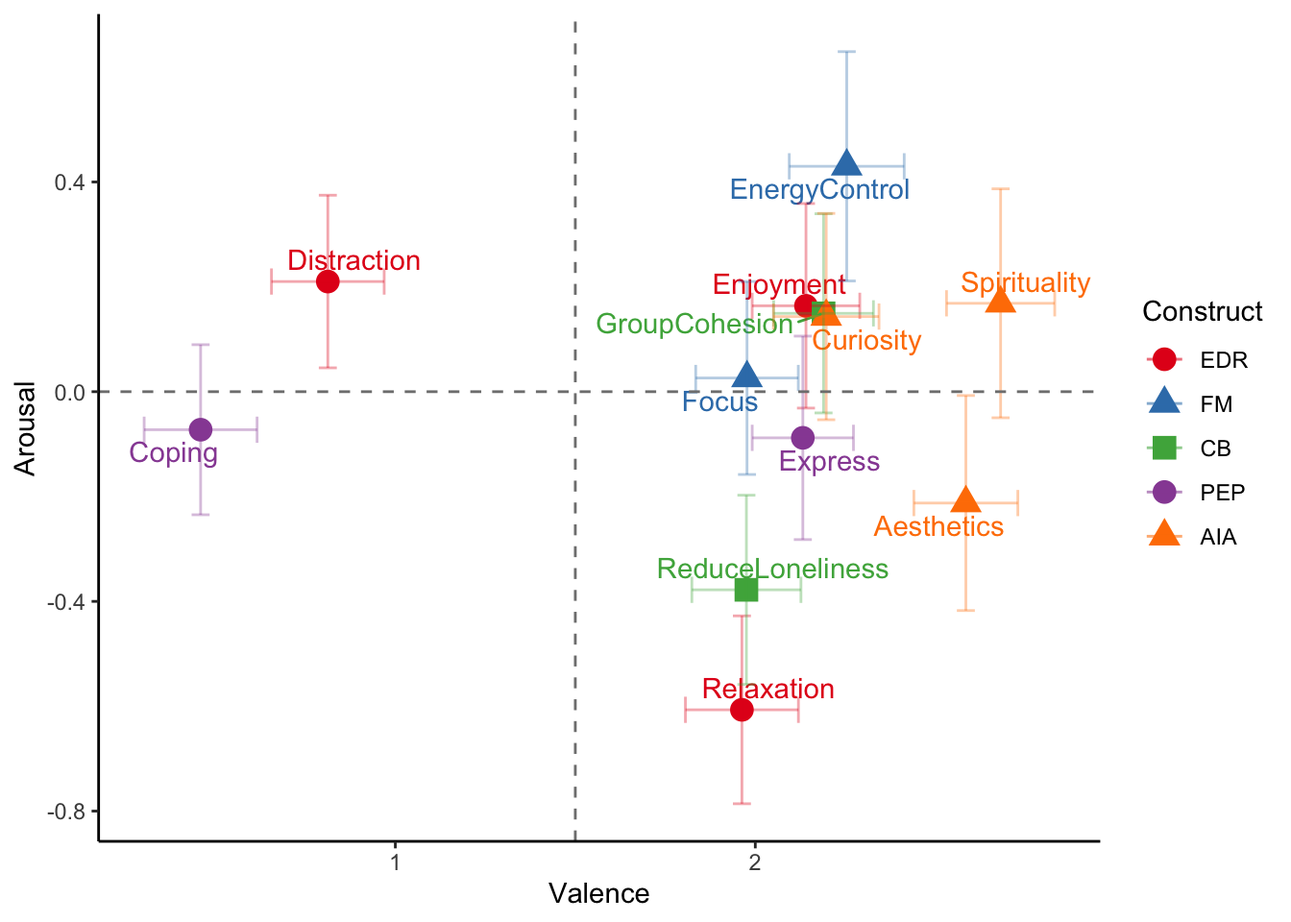
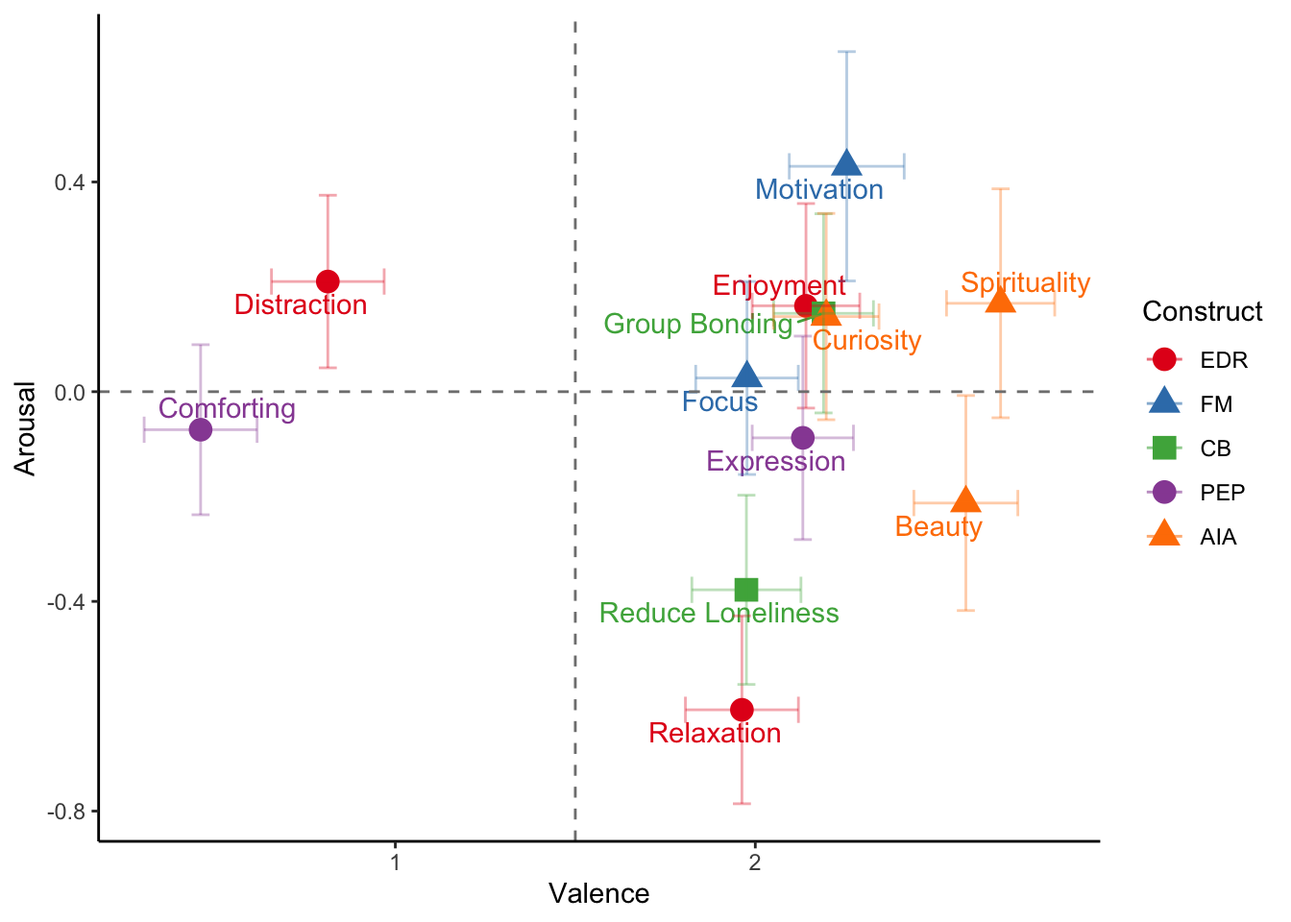
Minor relabelling of the sub-constructs take 2

diff --git a/docs/exp2/higher_order_structure.html b/docs/exp2/higher_order_structure.html
@@ -287,12 +287,12 @@ pre > code.sourceCode > span > a:first-child::before { text-decoration: underlin
 <span id="cb3-19"><a href="#cb3-19" aria-hidden="true" tabindex="-1"></a><span class="st">X =~ X4 + X8 + X9</span></span>
 <span id="cb3-20"><a href="#cb3-20" aria-hidden="true" tabindex="-1"></a></span>
 <span id="cb3-21"><a href="#cb3-21" aria-hidden="true" tabindex="-1"></a><span class="st"># sub-factors: AIA</span></span>
-<span id="cb3-22"><a href="#cb3-22" aria-hidden="true" tabindex="-1"></a><span class="st">B =~ B3 + B4 + B5</span></span>
+<span id="cb3-22"><a href="#cb3-22" aria-hidden="true" tabindex="-1"></a><span class="st">S =~ S3 + S4 + S5</span></span>
 <span id="cb3-23"><a href="#cb3-23" aria-hidden="true" tabindex="-1"></a><span class="st">I =~ I1 + I2</span></span>
-<span id="cb3-24"><a href="#cb3-24" aria-hidden="true" tabindex="-1"></a><span class="st">A =~ A1 + A3 + A5</span></span>
+<span id="cb3-24"><a href="#cb3-24" aria-hidden="true" tabindex="-1"></a><span class="st">B =~ B1 + B3 + B5</span></span>
 <span id="cb3-25"><a href="#cb3-25" aria-hidden="true" tabindex="-1"></a><span class="st">"</span></span>
 <span id="cb3-26"><a href="#cb3-26" aria-hidden="true" tabindex="-1"></a></span>
-<span id="cb3-27"><a href="#cb3-27" aria-hidden="true" tabindex="-1"></a>items <span class="ot">&lt;-</span> <span class="fu">c</span>(<span class="st">"E1"</span>,<span class="st">"E6"</span>,<span class="st">"E7"</span>,<span class="st">"D1"</span>,<span class="st">"D6"</span>,<span class="st">"D7"</span>,<span class="st">"R1"</span>,<span class="st">"R3"</span>,<span class="st">"R7"</span>,<span class="st">"M1"</span>,<span class="st">"M3"</span>,<span class="st">"M9"</span>,<span class="st">"F3"</span>,<span class="st">"F6"</span>,<span class="st">"F10"</span>,<span class="st">"G5"</span>,<span class="st">"G2"</span>,<span class="st">"G9"</span>,<span class="st">"L5"</span>,<span class="st">"L6"</span>,<span class="st">"L7"</span>,<span class="st">"C2"</span>,<span class="st">"C3"</span>,<span class="st">"C6"</span>,<span class="st">"X4"</span>,<span class="st">"X8"</span>,<span class="st">"X9"</span>,<span class="st">"B3"</span>,<span class="st">"B4"</span>,<span class="st">"B5"</span>,<span class="st">"I1"</span>,<span class="st">"I2"</span>,<span class="st">"A1"</span>,<span class="st">"A3"</span>,<span class="st">"A5"</span>)</span>
+<span id="cb3-27"><a href="#cb3-27" aria-hidden="true" tabindex="-1"></a>items <span class="ot">&lt;-</span> <span class="fu">c</span>(<span class="st">"E1"</span>,<span class="st">"E6"</span>,<span class="st">"E7"</span>,<span class="st">"D1"</span>,<span class="st">"D6"</span>,<span class="st">"D7"</span>,<span class="st">"R1"</span>,<span class="st">"R3"</span>,<span class="st">"R7"</span>,<span class="st">"M1"</span>,<span class="st">"M3"</span>,<span class="st">"M9"</span>,<span class="st">"F3"</span>,<span class="st">"F6"</span>,<span class="st">"F10"</span>,<span class="st">"G5"</span>,<span class="st">"G2"</span>,<span class="st">"G9"</span>,<span class="st">"L5"</span>,<span class="st">"L6"</span>,<span class="st">"L7"</span>,<span class="st">"C2"</span>,<span class="st">"C3"</span>,<span class="st">"C6"</span>,<span class="st">"X4"</span>,<span class="st">"X8"</span>,<span class="st">"X9"</span>,<span class="st">"S3"</span>,<span class="st">"S4"</span>,<span class="st">"S5"</span>,<span class="st">"I1"</span>,<span class="st">"I2"</span>,<span class="st">"B1"</span>,<span class="st">"B3"</span>,<span class="st">"B5"</span>)</span>
 <span id="cb3-28"><a href="#cb3-28" aria-hidden="true" tabindex="-1"></a>tmp <span class="ot">&lt;-</span> <span class="fu">CFA_items</span>(df_f,<span class="at">vignette =</span> <span class="dv">1</span><span class="sc">:</span><span class="dv">12</span>, <span class="at">items=</span>items,<span class="at">vignette_name=</span><span class="st">"ALL"</span>,<span class="at">bonusquestion=</span><span class="st">"HAAS"</span>)</span>
 <span id="cb3-29"><a href="#cb3-29" aria-hidden="true" tabindex="-1"></a>fit1 <span class="ot">&lt;-</span> lavaan<span class="sc">::</span><span class="fu">cfa</span>(<span class="at">model =</span> first_order, <span class="at">data =</span> tmp, <span class="at">meanstructure =</span> <span class="cn">TRUE</span>,<span class="at">estimator =</span> <span class="st">"MLR"</span>)</span>
 <span id="cb3-30"><a href="#cb3-30" aria-hidden="true" tabindex="-1"></a>fit1.meas <span class="ot">&lt;-</span> lavaan<span class="sc">::</span><span class="fu">fitMeasures</span>(fit1,<span class="fu">c</span>(<span class="st">"tli"</span>,<span class="st">"chisq"</span>,<span class="st">"df"</span>,<span class="st">"pvalue"</span>, <span class="st">"cfi"</span>, <span class="st">"rmsea"</span>, <span class="st">"srmr"</span>))</span>
@@ -328,9 +328,9 @@ pre > code.sourceCode > span > a:first-child::before { text-decoration: underlin
 <span id="cb5-19"><a href="#cb5-19" aria-hidden="true" tabindex="-1"></a><span class="st">X =~ X4 + X8 + X9</span></span>
 <span id="cb5-20"><a href="#cb5-20" aria-hidden="true" tabindex="-1"></a></span>
 <span id="cb5-21"><a href="#cb5-21" aria-hidden="true" tabindex="-1"></a><span class="st"># sub-factors: AIA</span></span>
-<span id="cb5-22"><a href="#cb5-22" aria-hidden="true" tabindex="-1"></a><span class="st">B =~ B3 + B4 + B5</span></span>
+<span id="cb5-22"><a href="#cb5-22" aria-hidden="true" tabindex="-1"></a><span class="st">S =~ S3 + S4 + S5</span></span>
 <span id="cb5-23"><a href="#cb5-23" aria-hidden="true" tabindex="-1"></a><span class="st">I =~ I1 + I2</span></span>
-<span id="cb5-24"><a href="#cb5-24" aria-hidden="true" tabindex="-1"></a><span class="st">A =~ A1 + A3 + A5</span></span>
+<span id="cb5-24"><a href="#cb5-24" aria-hidden="true" tabindex="-1"></a><span class="st">B =~ B1 + B3 + B5</span></span>
 <span id="cb5-25"><a href="#cb5-25" aria-hidden="true" tabindex="-1"></a></span>
 <span id="cb5-26"><a href="#cb5-26" aria-hidden="true" tabindex="-1"></a><span class="st"># 2nd order factors</span></span>
 <span id="cb5-27"><a href="#cb5-27" aria-hidden="true" tabindex="-1"></a></span>
@@ -338,10 +338,10 @@ pre > code.sourceCode > span > a:first-child::before { text-decoration: underlin
 <span id="cb5-29"><a href="#cb5-29" aria-hidden="true" tabindex="-1"></a><span class="st">FM =~ M + F</span></span>
 <span id="cb5-30"><a href="#cb5-30" aria-hidden="true" tabindex="-1"></a><span class="st">CB =~ G + L </span></span>
 <span id="cb5-31"><a href="#cb5-31" aria-hidden="true" tabindex="-1"></a><span class="st">PEP =~ C + X</span></span>
-<span id="cb5-32"><a href="#cb5-32" aria-hidden="true" tabindex="-1"></a><span class="st">AIA =~ B + I + A  </span></span>
+<span id="cb5-32"><a href="#cb5-32" aria-hidden="true" tabindex="-1"></a><span class="st">AIA =~ S + I + B  </span></span>
 <span id="cb5-33"><a href="#cb5-33" aria-hidden="true" tabindex="-1"></a><span class="st">"</span></span>
 <span id="cb5-34"><a href="#cb5-34" aria-hidden="true" tabindex="-1"></a></span>
-<span id="cb5-35"><a href="#cb5-35" aria-hidden="true" tabindex="-1"></a>items <span class="ot">&lt;-</span> <span class="fu">c</span>(<span class="st">"E1"</span>,<span class="st">"E6"</span>,<span class="st">"E7"</span>,<span class="st">"D1"</span>,<span class="st">"D6"</span>,<span class="st">"D7"</span>,<span class="st">"R1"</span>,<span class="st">"R3"</span>,<span class="st">"R7"</span>,<span class="st">"M1"</span>,<span class="st">"M3"</span>,<span class="st">"M9"</span>,<span class="st">"F3"</span>,<span class="st">"F6"</span>,<span class="st">"F10"</span>,<span class="st">"G5"</span>,<span class="st">"G2"</span>,<span class="st">"G9"</span>,<span class="st">"L5"</span>,<span class="st">"L6"</span>,<span class="st">"L7"</span>,<span class="st">"C2"</span>,<span class="st">"C3"</span>,<span class="st">"C6"</span>,<span class="st">"X4"</span>,<span class="st">"X8"</span>,<span class="st">"X9"</span>,<span class="st">"B3"</span>,<span class="st">"B4"</span>,<span class="st">"B5"</span>,<span class="st">"I1"</span>,<span class="st">"I2"</span>,<span class="st">"A1"</span>,<span class="st">"A3"</span>,<span class="st">"A5"</span>)</span>
+<span id="cb5-35"><a href="#cb5-35" aria-hidden="true" tabindex="-1"></a>items <span class="ot">&lt;-</span> <span class="fu">c</span>(<span class="st">"E1"</span>,<span class="st">"E6"</span>,<span class="st">"E7"</span>,<span class="st">"D1"</span>,<span class="st">"D6"</span>,<span class="st">"D7"</span>,<span class="st">"R1"</span>,<span class="st">"R3"</span>,<span class="st">"R7"</span>,<span class="st">"M1"</span>,<span class="st">"M3"</span>,<span class="st">"M9"</span>,<span class="st">"F3"</span>,<span class="st">"F6"</span>,<span class="st">"F10"</span>,<span class="st">"G5"</span>,<span class="st">"G2"</span>,<span class="st">"G9"</span>,<span class="st">"L5"</span>,<span class="st">"L6"</span>,<span class="st">"L7"</span>,<span class="st">"C2"</span>,<span class="st">"C3"</span>,<span class="st">"C6"</span>,<span class="st">"X4"</span>,<span class="st">"X8"</span>,<span class="st">"X9"</span>,<span class="st">"S3"</span>,<span class="st">"S4"</span>,<span class="st">"S5"</span>,<span class="st">"I1"</span>,<span class="st">"I2"</span>,<span class="st">"B1"</span>,<span class="st">"B3"</span>,<span class="st">"B5"</span>)</span>
 <span id="cb5-36"><a href="#cb5-36" aria-hidden="true" tabindex="-1"></a></span>
 <span id="cb5-37"><a href="#cb5-37" aria-hidden="true" tabindex="-1"></a>tmp <span class="ot">&lt;-</span> <span class="fu">CFA_items</span>(df_f,<span class="at">vignette =</span> <span class="dv">1</span><span class="sc">:</span><span class="dv">12</span>, <span class="at">items=</span>items,<span class="at">vignette_name=</span><span class="st">"ALL"</span>,<span class="at">bonusquestion=</span><span class="st">"HAAS"</span>)</span>
 <span id="cb5-38"><a href="#cb5-38" aria-hidden="true" tabindex="-1"></a>fit2 <span class="ot">&lt;-</span> lavaan<span class="sc">::</span><span class="fu">cfa</span>(<span class="at">model =</span> second_order, <span class="at">data =</span> tmp, <span class="at">meanstructure =</span> <span class="cn">TRUE</span>, <span class="at">estimator =</span> <span class="st">"MLR"</span>)</span></code></pre></div><button title="Copy to Clipboard" class="code-copy-button"><i class="bi"></i></button></div>
@@ -567,19 +567,19 @@ fit2 - fit1        44        0.012     -0.031     -0.031 0.021 806.505 582.541</
 <span id="cb21-3"><a href="#cb21-3" aria-hidden="true" tabindex="-1"></a><span class="co"># This is done using omega, not alpha</span></span>
 <span id="cb21-4"><a href="#cb21-4" aria-hidden="true" tabindex="-1"></a><span class="fu">compRelSEM</span>(fit1,<span class="at">tau.eq=</span>F)                 <span class="co"># all acceptable good excellent</span></span></code></pre></div><button title="Copy to Clipboard" class="code-copy-button"><i class="bi"></i></button></div>
 <div class="cell-output cell-output-stdout">
-<pre><code>    E     D     R     M     F     G     L     C     X     B     I     A 
+<pre><code>    E     D     R     M     F     G     L     C     X     S     I     B 
 0.806 0.769 0.882 0.818 0.878 0.903 0.881 0.842 0.829 0.918 0.874 0.783 </code></pre>
 </div>
 <div class="code-copy-outer-scaffold"><div class="sourceCode cell-code" id="cb23"><pre class="sourceCode r code-with-copy"><code class="sourceCode r"><span id="cb23-1"><a href="#cb23-1" aria-hidden="true" tabindex="-1"></a><span class="fu">compRelSEM</span>(fit2,<span class="at">higher =</span> <span class="fu">c</span>(<span class="st">"EDR"</span>,<span class="st">"FM"</span>,<span class="st">"CB"</span>,<span class="st">"PEP"</span>,<span class="st">"AIA"</span>),<span class="at">tau.eq=</span>F) <span class="co"># all acceptable good excellent</span></span></code></pre></div><button title="Copy to Clipboard" class="code-copy-button"><i class="bi"></i></button></div>
 <div class="cell-output cell-output-stdout">
-<pre><code>    E     D     R     M     F     G     L     C     X     B     I     A   EDR 
+<pre><code>    E     D     R     M     F     G     L     C     X     S     I     B   EDR 
 0.804 0.771 0.882 0.811 0.879 0.903 0.880 0.841 0.832 0.918 0.874 0.783 0.679 
    FM    CB   PEP   AIA 
 0.760 0.613 0.704 0.759 </code></pre>
 </div>
 <div class="code-copy-outer-scaffold"><div class="sourceCode cell-code" id="cb25"><pre class="sourceCode r code-with-copy"><code class="sourceCode r"><span id="cb25-1"><a href="#cb25-1" aria-hidden="true" tabindex="-1"></a><span class="fu">compRelSEM</span>(fit3, <span class="at">tau.eq=</span>F)               <span class="co"># g good but constructs are poor </span></span></code></pre></div><button title="Copy to Clipboard" class="code-copy-button"><i class="bi"></i></button></div>
 <div class="cell-output cell-output-stdout">
-<pre><code>    g     E     D     R     M     F     G     L     C     X     B     I     A 
+<pre><code>    g     E     D     R     M     F     G     L     C     X     S     I     B 
 0.894 0.386 0.373 0.470 0.531 0.588 0.551 0.394 0.234 0.285 0.539 0.472 0.250 </code></pre>
 </div>
 <div class="code-copy-outer-scaffold"><div class="sourceCode cell-code" id="cb27"><pre class="sourceCode r code-with-copy"><code class="sourceCode r"><span id="cb27-1"><a href="#cb27-1" aria-hidden="true" tabindex="-1"></a><span class="fu">compRelSEM</span>(fit4,<span class="at">tau.eq=</span>F)                <span class="co"># all above 0.80</span></span></code></pre></div><button title="Copy to Clipboard" class="code-copy-button"><i class="bi"></i></button></div>
@@ -589,7 +589,7 @@ fit2 - fit1        44        0.012     -0.031     -0.031 0.021 806.505 582.541</
 </div>
 <div class="code-copy-outer-scaffold"><div class="sourceCode cell-code" id="cb29"><pre class="sourceCode r code-with-copy"><code class="sourceCode r"><span id="cb29-1"><a href="#cb29-1" aria-hidden="true" tabindex="-1"></a><span class="fu">compRelSEM</span>(fit5,<span class="at">tau.eq=</span>F,<span class="at">higher=</span><span class="st">"g"</span>)     <span class="co"># all above 0.80</span></span></code></pre></div><button title="Copy to Clipboard" class="code-copy-button"><i class="bi"></i></button></div>
 <div class="cell-output cell-output-stdout">
-<pre><code>    E     D     R     M     F     G     L     C     X     B     I     A     g 
+<pre><code>    E     D     R     M     F     G     L     C     X     S     I     B     g 
 0.805 0.771 0.882 0.812 0.879 0.903 0.880 0.842 0.832 0.918 0.874 0.782   NaN </code></pre>
 </div>
 <div class="code-copy-outer-scaffold"><div class="sourceCode cell-code" id="cb31"><pre class="sourceCode r code-with-copy"><code class="sourceCode r"><span id="cb31-1"><a href="#cb31-1" aria-hidden="true" tabindex="-1"></a>cor_matrix <span class="ot">&lt;-</span> <span class="fu">lavInspect</span>(fit2, <span class="st">"cor.lv"</span>)</span>
@@ -599,7 +599,7 @@ fit2 - fit1        44        0.012     -0.031     -0.031 0.021 806.505 582.541</
 
 Table: Correlations between the latent factors (for sub-constructs and constructs).
 
-|    |    E|    D|    R|    M|    F|    G|    L|    C|    X|    B|    I|    A|  EDR|   FM|   CB|  PEP|  AIA|
+|    |    E|    D|    R|    M|    F|    G|    L|    C|    X|    S|    I|    B|  EDR|   FM|   CB|  PEP|  AIA|
 |:---|----:|----:|----:|----:|----:|----:|----:|----:|----:|----:|----:|----:|----:|----:|----:|----:|----:|
 |E   | 1.00| 0.51| 0.49| 0.39| 0.39| 0.40| 0.44| 0.64| 0.57| 0.40| 0.45| 0.56| 0.69| 0.46| 0.59| 0.74| 0.59|
 |D   | 0.51| 1.00| 0.52| 0.41| 0.42| 0.43| 0.47| 0.68| 0.61| 0.42| 0.48| 0.59| 0.73| 0.49| 0.63| 0.79| 0.62|
@@ -610,9 +610,9 @@ Table: Correlations between the latent factors (for sub-constructs and construct
 |L   | 0.44| 0.47| 0.46| 0.35| 0.36| 0.50| 1.00| 0.62| 0.56| 0.43| 0.48| 0.60| 0.64| 0.42| 0.74| 0.72| 0.63|
 |C   | 0.64| 0.68| 0.66| 0.49| 0.49| 0.56| 0.62| 1.00| 0.67| 0.48| 0.55| 0.68| 0.92| 0.58| 0.83| 0.86| 0.72|
 |X   | 0.57| 0.61| 0.59| 0.44| 0.44| 0.51| 0.56| 0.67| 1.00| 0.44| 0.49| 0.61| 0.83| 0.52| 0.75| 0.77| 0.64|
-|B   | 0.40| 0.42| 0.41| 0.28| 0.28| 0.38| 0.43| 0.48| 0.44| 1.00| 0.52| 0.64| 0.58| 0.33| 0.57| 0.56| 0.68|
+|S   | 0.40| 0.42| 0.41| 0.28| 0.28| 0.38| 0.43| 0.48| 0.44| 1.00| 0.52| 0.64| 0.58| 0.33| 0.57| 0.56| 0.68|
 |I   | 0.45| 0.48| 0.47| 0.32| 0.32| 0.44| 0.48| 0.55| 0.49| 0.52| 1.00| 0.73| 0.65| 0.38| 0.65| 0.64| 0.77|
-|A   | 0.56| 0.59| 0.57| 0.39| 0.40| 0.54| 0.60| 0.68| 0.61| 0.64| 0.73| 1.00| 0.81| 0.46| 0.80| 0.79| 0.95|
+|B   | 0.56| 0.59| 0.57| 0.39| 0.40| 0.54| 0.60| 0.68| 0.61| 0.64| 0.73| 1.00| 0.81| 0.46| 0.80| 0.79| 0.95|
 |EDR | 0.69| 0.73| 0.71| 0.56| 0.57| 0.58| 0.64| 0.92| 0.83| 0.58| 0.65| 0.81| 1.00| 0.66| 0.86| 1.07| 0.85|
 |FM  | 0.46| 0.49| 0.47| 0.84| 0.85| 0.38| 0.42| 0.58| 0.52| 0.33| 0.38| 0.46| 0.66| 1.00| 0.56| 0.67| 0.49|
 |CB  | 0.59| 0.63| 0.61| 0.47| 0.48| 0.67| 0.74| 0.83| 0.75| 0.57| 0.65| 0.80| 0.86| 0.56| 1.00| 0.97| 0.84|
@@ -630,7 +630,7 @@ Table: Correlations between the latent factors (for sub-constructs and construct
 <div class="code-copy-outer-scaffold"><div class="sourceCode cell-code" id="cb33"><pre class="sourceCode r code-with-copy"><code class="sourceCode r"><span id="cb33-1"><a href="#cb33-1" aria-hidden="true" tabindex="-1"></a><span class="co"># calculate average variance explained, 0.50+ is acceptable </span></span>
 <span id="cb33-2"><a href="#cb33-2" aria-hidden="true" tabindex="-1"></a><span class="fu">lavInspect</span>(fit1, <span class="st">"cor.lv"</span>)</span></code></pre></div><button title="Copy to Clipboard" class="code-copy-button"><i class="bi"></i></button></div>
 <div class="cell-output cell-output-stdout">
-<pre><code>      E     D     R     M     F     G     L     C     X     B     I     A
+<pre><code>      E     D     R     M     F     G     L     C     X     S     I     B
 E 1.000                                                                  
 D 0.432 1.000                                                            
 R 0.518 0.555 1.000                                                      
@@ -640,26 +640,26 @@ G 0.521 0.271 0.306 0.298 0.270 1.000
 L 0.432 0.623 0.450 0.381 0.390 0.502 1.000                              
 C 0.559 0.747 0.760 0.410 0.462 0.431 0.668 1.000                        
 X 0.535 0.635 0.467 0.565 0.491 0.574 0.595 0.667 1.000                  
-B 0.337 0.459 0.428 0.295 0.313 0.445 0.438 0.524 0.531 1.000            
+S 0.337 0.459 0.428 0.295 0.313 0.445 0.438 0.524 0.531 1.000            
 I 0.529 0.361 0.389 0.374 0.375 0.553 0.429 0.454 0.533 0.517 1.000      
-A 0.807 0.428 0.579 0.353 0.357 0.620 0.484 0.678 0.608 0.612 0.748 1.000</code></pre>
+B 0.807 0.428 0.579 0.353 0.357 0.620 0.484 0.678 0.608 0.612 0.748 1.000</code></pre>
 </div>
 <div class="code-copy-outer-scaffold"><div class="sourceCode cell-code" id="cb35"><pre class="sourceCode r code-with-copy"><code class="sourceCode r"><span id="cb35-1"><a href="#cb35-1" aria-hidden="true" tabindex="-1"></a><span class="co"># First-order model</span></span>
 <span id="cb35-2"><a href="#cb35-2" aria-hidden="true" tabindex="-1"></a><span class="fu">AVE</span>(fit1)  <span class="co"># all above 0.50</span></span></code></pre></div><button title="Copy to Clipboard" class="code-copy-button"><i class="bi"></i></button></div>
 <div class="cell-output cell-output-stdout">
-<pre><code>    E     D     R     M     F     G     L     C     X     B     I     A 
+<pre><code>    E     D     R     M     F     G     L     C     X     S     I     B 
 0.579 0.528 0.713 0.596 0.708 0.756 0.704 0.636 0.615 0.789 0.776 0.541 </code></pre>
 </div>
 <div class="code-copy-outer-scaffold"><div class="sourceCode cell-code" id="cb37"><pre class="sourceCode r code-with-copy"><code class="sourceCode r"><span id="cb37-1"><a href="#cb37-1" aria-hidden="true" tabindex="-1"></a><span class="co"># First and second-order</span></span>
 <span id="cb37-2"><a href="#cb37-2" aria-hidden="true" tabindex="-1"></a><span class="fu">AVE</span>(fit2)  <span class="co"># all above 0.50</span></span></code></pre></div><button title="Copy to Clipboard" class="code-copy-button"><i class="bi"></i></button></div>
 <div class="cell-output cell-output-stdout">
-<pre><code>    E     D     R     M     F     G     L     C     X     B     I     A 
+<pre><code>    E     D     R     M     F     G     L     C     X     S     I     B 
 0.577 0.528 0.713 0.594 0.708 0.756 0.704 0.635 0.617 0.789 0.776 0.541 </code></pre>
 </div>
 <div class="code-copy-outer-scaffold"><div class="sourceCode cell-code" id="cb39"><pre class="sourceCode r code-with-copy"><code class="sourceCode r"><span id="cb39-1"><a href="#cb39-1" aria-hidden="true" tabindex="-1"></a><span class="co"># Bifactor</span></span>
 <span id="cb39-2"><a href="#cb39-2" aria-hidden="true" tabindex="-1"></a><span class="fu">AVE</span>(fit3,<span class="at">omit.factors=</span><span class="st">"g"</span>)  <span class="co"># All below 0.50</span></span></code></pre></div><button title="Copy to Clipboard" class="code-copy-button"><i class="bi"></i></button></div>
 <div class="cell-output cell-output-stdout">
-<pre><code>    E     D     R     M     F     G     L     C     X     B     I     A 
+<pre><code>    E     D     R     M     F     G     L     C     X     S     I     B 
 0.277 0.259 0.380 0.394 0.475 0.462 0.339 0.184 0.222 0.464 0.420 0.196 </code></pre>
 </div>
 <div class="code-copy-outer-scaffold"><div class="sourceCode cell-code" id="cb41"><pre class="sourceCode r code-with-copy"><code class="sourceCode r"><span id="cb41-1"><a href="#cb41-1" aria-hidden="true" tabindex="-1"></a><span class="co"># Second-order only</span></span>
@@ -671,7 +671,7 @@ A 0.807 0.428 0.579 0.353 0.357 0.620 0.484 0.678 0.608 0.612 0.748 1.000</code>
 <div class="code-copy-outer-scaffold"><div class="sourceCode cell-code" id="cb43"><pre class="sourceCode r code-with-copy"><code class="sourceCode r"><span id="cb43-1"><a href="#cb43-1" aria-hidden="true" tabindex="-1"></a><span class="co"># 1st, 2nd, and third-order</span></span>
 <span id="cb43-2"><a href="#cb43-2" aria-hidden="true" tabindex="-1"></a><span class="fu">AVE</span>(fit5)  <span class="co"># all above 0.50</span></span></code></pre></div><button title="Copy to Clipboard" class="code-copy-button"><i class="bi"></i></button></div>
 <div class="cell-output cell-output-stdout">
-<pre><code>    E     D     R     M     F     G     L     C     X     B     I     A 
+<pre><code>    E     D     R     M     F     G     L     C     X     S     I     B 
 0.577 0.529 0.713 0.594 0.708 0.756 0.704 0.636 0.617 0.789 0.776 0.540 </code></pre>
 </div>
 </div>
@@ -712,9 +712,9 @@ A 0.807 0.428 0.579 0.353 0.357 0.620 0.484 0.678 0.608 0.612 0.748 1.000</code>
 <th style="text-align: right;">L</th>
 <th style="text-align: right;">C</th>
 <th style="text-align: right;">X</th>
-<th style="text-align: right;">B</th>
+<th style="text-align: right;">S</th>
 <th style="text-align: right;">I</th>
-<th style="text-align: right;">A</th>
+<th style="text-align: right;">B</th>
 </tr>
 </thead>
 <tbody>
@@ -854,7 +854,7 @@ A 0.807 0.428 0.579 0.353 0.357 0.620 0.484 0.678 0.608 0.612 0.748 1.000</code>
 <td style="text-align: right;">0.619</td>
 </tr>
 <tr class="even">
-<td style="text-align: left;">B</td>
+<td style="text-align: left;">S</td>
 <td style="text-align: right;">0.338</td>
 <td style="text-align: right;">0.458</td>
 <td style="text-align: right;">0.429</td>
@@ -884,7 +884,7 @@ A 0.807 0.428 0.579 0.353 0.357 0.620 0.484 0.678 0.608 0.612 0.748 1.000</code>
 <td style="text-align: right;">0.758</td>
 </tr>
 <tr class="even">
-<td style="text-align: left;">A</td>
+<td style="text-align: left;">B</td>
 <td style="text-align: right;">0.809</td>
 <td style="text-align: right;">0.431</td>
 <td style="text-align: right;">0.577</td>

diff --git a/docs/exp2/CFA.html b/docs/exp2/CFA.html
@@ -563,12 +563,12 @@ Signif. codes:  0 '***' 0.001 '**' 0.01 '*' 0.05 '.' 0.1 ' ' 1</code></pre>
 <div class="code-copy-outer-scaffold"><div class="sourceCode cell-code" id="cb40"><pre class="sourceCode r code-with-copy"><code class="sourceCode r"><span id="cb40-1"><a href="#cb40-1" aria-hidden="true" tabindex="-1"></a><span class="fu">set.seed</span>(<span class="dv">3110</span>)</span>
 <span id="cb40-2"><a href="#cb40-2" aria-hidden="true" tabindex="-1"></a></span>
 <span id="cb40-3"><a href="#cb40-3" aria-hidden="true" tabindex="-1"></a>AIA <span class="ot">&lt;-</span> <span class="st">"</span></span>
-<span id="cb40-4"><a href="#cb40-4" aria-hidden="true" tabindex="-1"></a><span class="st">B =~ B3 + B4 + B5</span></span>
+<span id="cb40-4"><a href="#cb40-4" aria-hidden="true" tabindex="-1"></a><span class="st">S =~ S3 + S4 + S5</span></span>
 <span id="cb40-5"><a href="#cb40-5" aria-hidden="true" tabindex="-1"></a><span class="st">I =~ I1 + I2</span></span>
-<span id="cb40-6"><a href="#cb40-6" aria-hidden="true" tabindex="-1"></a><span class="st">A =~ A1 + A3 + A5</span></span>
+<span id="cb40-6"><a href="#cb40-6" aria-hidden="true" tabindex="-1"></a><span class="st">B =~ B1 + B3 + B5</span></span>
 <span id="cb40-7"><a href="#cb40-7" aria-hidden="true" tabindex="-1"></a><span class="st">"</span></span>
 <span id="cb40-8"><a href="#cb40-8" aria-hidden="true" tabindex="-1"></a></span>
-<span id="cb40-9"><a href="#cb40-9" aria-hidden="true" tabindex="-1"></a>items <span class="ot">&lt;-</span> <span class="fu">c</span>(<span class="st">"B3"</span>,<span class="st">"B4"</span>,<span class="st">"B5"</span>,<span class="st">"I1"</span>,<span class="st">"I2"</span>,<span class="st">"A1"</span>,<span class="st">"A3"</span>,<span class="st">"A5"</span>)</span>
+<span id="cb40-9"><a href="#cb40-9" aria-hidden="true" tabindex="-1"></a>items <span class="ot">&lt;-</span> <span class="fu">c</span>(<span class="st">"S3"</span>,<span class="st">"S4"</span>,<span class="st">"S5"</span>,<span class="st">"I1"</span>,<span class="st">"I2"</span>,<span class="st">"B1"</span>,<span class="st">"B3"</span>,<span class="st">"B5"</span>)</span>
 <span id="cb40-10"><a href="#cb40-10" aria-hidden="true" tabindex="-1"></a>tmp <span class="ot">&lt;-</span> <span class="fu">CFA_items</span>(df_f,<span class="at">vignette =</span> <span class="fu">c</span>(<span class="dv">10</span>,<span class="dv">11</span>,<span class="dv">12</span>), <span class="at">items=</span>items,<span class="at">vignette_name=</span><span class="st">"AIA"</span>,<span class="at">bonusquestion=</span><span class="st">"HAAS"</span>)</span>
 <span id="cb40-11"><a href="#cb40-11" aria-hidden="true" tabindex="-1"></a>fit <span class="ot">&lt;-</span> lavaan<span class="sc">::</span><span class="fu">cfa</span>(<span class="at">model =</span> AIA, <span class="at">data =</span> tmp, <span class="at">estimator =</span> <span class="st">"MLR"</span>,<span class="at">group =</span> <span class="st">"VigNro"</span>) <span class="co"># includes vignettes explicitly</span></span>
 <span id="cb40-12"><a href="#cb40-12" aria-hidden="true" tabindex="-1"></a>fit.meas5 <span class="ot">&lt;-</span> lavaan<span class="sc">::</span><span class="fu">fitMeasures</span>(fit,<span class="fu">c</span>(<span class="st">"tli"</span>,<span class="st">"chisq"</span>,<span class="st">"df"</span>,<span class="st">"pvalue"</span>, <span class="st">"cfi"</span>, <span class="st">"rmsea"</span>, <span class="st">"srmr"</span>))</span>
@@ -621,9 +621,9 @@ Signif. codes:  0 '***' 0.001 '**' 0.01 '*' 0.05 '.' 0.1 ' ' 1</code></pre>
 <div class="code-copy-outer-scaffold"><div class="sourceCode cell-code" id="cb48"><pre class="sourceCode r code-with-copy"><code class="sourceCode r"><span id="cb48-1"><a href="#cb48-1" aria-hidden="true" tabindex="-1"></a><span class="fu">print</span>(ds5)</span></code></pre></div><button title="Copy to Clipboard" class="code-copy-button"><i class="bi"></i></button></div>
 <div class="cell-output cell-output-stdout">
 <pre><code>  lhs op rhs       est  ci.lower  ci.upper Df      AIC      BIC    Chisq
-1   B ~~   I 0.3237894 0.1860453 0.4615334 19 5758.875 5851.469 260.1804
-2   B ~~   A 0.5959015 0.4929085 0.6988944 19 5690.502 5783.097 191.8079
-3   I ~~   A 0.5215025 0.3852497 0.6577553 19 5685.831 5778.425 187.1364
+1   S ~~   I 0.3237894 0.1860453 0.4615334 19 5758.875 5851.469 260.1804
+2   S ~~   B 0.5959015 0.4929085 0.6988944 19 5690.502 5783.097 191.8079
+3   I ~~   B 0.5215025 0.3852497 0.6577553 19 5685.831 5778.425 187.1364
   Chisq diff Df diff   Pr(&gt;Chisq)
 1   92.37423       2 8.733540e-21
 2   70.24699       2 5.572616e-16
@@ -854,7 +854,7 @@ Signif. codes:  0 '***' 0.001 '**' 0.01 '*' 0.05 '.' 0.1 ' ' 1</code></pre>
 </tr>
 <tr class="odd">
 <td style="text-align: left;">AIA</td>
-<td style="text-align: left;">B</td>
+<td style="text-align: left;">S</td>
 <td style="text-align: left;">~~</td>
 <td style="text-align: left;">I</td>
 <td style="text-align: right;">0.324</td>
@@ -870,9 +870,9 @@ Signif. codes:  0 '***' 0.001 '**' 0.01 '*' 0.05 '.' 0.1 ' ' 1</code></pre>
 </tr>
 <tr class="even">
 <td style="text-align: left;">AIA</td>
-<td style="text-align: left;">B</td>
+<td style="text-align: left;">S</td>
 <td style="text-align: left;">~~</td>
-<td style="text-align: left;">A</td>
+<td style="text-align: left;">B</td>
 <td style="text-align: right;">0.596</td>
 <td style="text-align: right;">0.493</td>
 <td style="text-align: right;">0.699</td>
@@ -888,7 +888,7 @@ Signif. codes:  0 '***' 0.001 '**' 0.01 '*' 0.05 '.' 0.1 ' ' 1</code></pre>
 <td style="text-align: left;">AIA</td>
 <td style="text-align: left;">I</td>
 <td style="text-align: left;">~~</td>
-<td style="text-align: left;">A</td>
+<td style="text-align: left;">B</td>
 <td style="text-align: right;">0.522</td>
 <td style="text-align: right;">0.385</td>
 <td style="text-align: right;">0.658</td>
@@ -1145,7 +1145,7 @@ Signif. codes:  0 '***' 0.001 '**' 0.01 '*' 0.05 '.' 0.1 ' ' 1</code></pre>
 </thead>
 <tbody>
 <tr class="odd">
-<td style="text-align: left;">B</td>
+<td style="text-align: left;">S</td>
 <td style="text-align: left;">~~</td>
 <td style="text-align: left;">I</td>
 <td style="text-align: right;">0.58</td>
@@ -1158,9 +1158,9 @@ Signif. codes:  0 '***' 0.001 '**' 0.01 '*' 0.05 '.' 0.1 ' ' 1</code></pre>
 <td style="text-align: right;">0.52</td>
 </tr>
 <tr class="even">
-<td style="text-align: left;">B</td>
+<td style="text-align: left;">S</td>
 <td style="text-align: left;">~~</td>
-<td style="text-align: left;">A</td>
+<td style="text-align: left;">B</td>
 <td style="text-align: right;">0.43</td>
 <td style="text-align: right;">0.03</td>
 <td style="text-align: right;">15.12</td>
@@ -1173,7 +1173,7 @@ Signif. codes:  0 '***' 0.001 '**' 0.01 '*' 0.05 '.' 0.1 ' ' 1</code></pre>
 <tr class="odd">
 <td style="text-align: left;">I</td>
 <td style="text-align: left;">~~</td>
-<td style="text-align: left;">A</td>
+<td style="text-align: left;">B</td>
 <td style="text-align: right;">0.46</td>
 <td style="text-align: right;">0.03</td>
 <td style="text-align: right;">16.06</td>
@@ -1386,22 +1386,22 @@ Signif. codes:  0 '***' 0.001 '**' 0.01 '*' 0.05 '.' 0.1 ' ' 1</code></pre>
 <td style="text-align: right;">1.13</td>
 </tr>
 <tr class="even">
-<td style="text-align: left;">B3</td>
-<td style="text-align: left;">B</td>
+<td style="text-align: left;">S3</td>
+<td style="text-align: left;">S</td>
 <td style="text-align: right;">0.90</td>
 <td style="text-align: right;">2.74</td>
 <td style="text-align: right;">1.25</td>
 </tr>
 <tr class="odd">
-<td style="text-align: left;">B4</td>
-<td style="text-align: left;">B</td>
+<td style="text-align: left;">S4</td>
+<td style="text-align: left;">S</td>
 <td style="text-align: right;">0.89</td>
 <td style="text-align: right;">2.66</td>
 <td style="text-align: right;">1.23</td>
 </tr>
 <tr class="even">
-<td style="text-align: left;">B5</td>
-<td style="text-align: left;">B</td>
+<td style="text-align: left;">S5</td>
+<td style="text-align: left;">S</td>
 <td style="text-align: right;">0.88</td>
 <td style="text-align: right;">2.81</td>
 <td style="text-align: right;">1.28</td>
@@ -1421,22 +1421,22 @@ Signif. codes:  0 '***' 0.001 '**' 0.01 '*' 0.05 '.' 0.1 ' ' 1</code></pre>
 <td style="text-align: right;">1.13</td>
 </tr>
 <tr class="odd">
-<td style="text-align: left;">A1</td>
-<td style="text-align: left;">A</td>
+<td style="text-align: left;">B1</td>
+<td style="text-align: left;">B</td>
 <td style="text-align: right;">0.74</td>
 <td style="text-align: right;">4.15</td>
 <td style="text-align: right;">0.85</td>
 </tr>
 <tr class="even">
-<td style="text-align: left;">A3</td>
-<td style="text-align: left;">A</td>
+<td style="text-align: left;">B3</td>
+<td style="text-align: left;">B</td>
 <td style="text-align: right;">0.77</td>
 <td style="text-align: right;">3.83</td>
 <td style="text-align: right;">1.03</td>
 </tr>
 <tr class="odd">
-<td style="text-align: left;">A5</td>
-<td style="text-align: left;">A</td>
+<td style="text-align: left;">B5</td>
+<td style="text-align: left;">B</td>
 <td style="text-align: right;">0.71</td>
 <td style="text-align: right;">3.11</td>
 <td style="text-align: right;">1.18</td>

diff --git a/docs/exp2/vignette_to_emotions.html b/docs/exp2/vignette_to_emotions.html
@@ -291,7 +291,7 @@ pre > code.sourceCode > span > a:first-child::before { text-decoration: underlin
 <p>[1] “N = 639”</p>
 <div class="code-copy-outer-scaffold"><div class="sourceCode cell-code" id="cb3"><pre class="sourceCode r code-with-copy"><code class="sourceCode r"><span id="cb3-1"><a href="#cb3-1" aria-hidden="true" tabindex="-1"></a>combined_HAAS <span class="ot">&lt;-</span> <span class="fu">merge</span>(fs0, S, <span class="at">by=</span><span class="st">"ProlificID"</span>)</span>
 <span id="cb3-2"><a href="#cb3-2" aria-hidden="true" tabindex="-1"></a><span class="co">#dim(combined_HAAS) #639</span></span>
-<span id="cb3-3"><a href="#cb3-3" aria-hidden="true" tabindex="-1"></a>vars<span class="ot">&lt;-</span><span class="fu">c</span>(<span class="st">"E"</span>,<span class="st">"D"</span>,<span class="st">"R"</span>,<span class="st">"M"</span>,<span class="st">"F"</span>,<span class="st">"G"</span>,<span class="st">"L"</span>,<span class="st">"C"</span>,<span class="st">"X"</span>,<span class="st">"B"</span>,<span class="st">"I"</span>,<span class="st">"A"</span>,<span class="st">"pos_high_M"</span>,<span class="st">"pos_low_M"</span>,<span class="st">"neg_high_M"</span>,<span class="st">"neg_low_M"</span>)</span>
+<span id="cb3-3"><a href="#cb3-3" aria-hidden="true" tabindex="-1"></a>vars<span class="ot">&lt;-</span><span class="fu">c</span>(<span class="st">"E"</span>,<span class="st">"D"</span>,<span class="st">"R"</span>,<span class="st">"M"</span>,<span class="st">"F"</span>,<span class="st">"G"</span>,<span class="st">"L"</span>,<span class="st">"C"</span>,<span class="st">"X"</span>,<span class="st">"S"</span>,<span class="st">"I"</span>,<span class="st">"B"</span>,<span class="st">"pos_high_M"</span>,<span class="st">"pos_low_M"</span>,<span class="st">"neg_high_M"</span>,<span class="st">"neg_low_M"</span>)</span>
 <span id="cb3-4"><a href="#cb3-4" aria-hidden="true" tabindex="-1"></a>matrix <span class="ot">&lt;-</span> dplyr<span class="sc">::</span><span class="fu">select</span>(combined_HAAS, <span class="fu">all_of</span>(vars))</span>
 <span id="cb3-5"><a href="#cb3-5" aria-hidden="true" tabindex="-1"></a>cm <span class="ot">&lt;-</span> <span class="fu">cor</span>(matrix, <span class="at">use=</span><span class="st">"pairwise.complete.obs"</span>)</span>
 <span id="cb3-6"><a href="#cb3-6" aria-hidden="true" tabindex="-1"></a><span class="fu">print</span>(knitr<span class="sc">::</span><span class="fu">kable</span>(cm, <span class="at">digits =</span> <span class="dv">2</span>, <span class="at">caption =</span> <span class="st">"Correlation Matrix between Factor Scores and HAAS Emotion Ratings."</span>))</span></code></pre></div><button title="Copy to Clipboard" class="code-copy-button"><i class="bi"></i></button></div>
@@ -328,9 +328,9 @@ pre > code.sourceCode > span > a:first-child::before { text-decoration: underlin
 <th style="text-align: right;">L</th>
 <th style="text-align: right;">C</th>
 <th style="text-align: right;">X</th>
-<th style="text-align: right;">B</th>
+<th style="text-align: right;">S</th>
 <th style="text-align: right;">I</th>
-<th style="text-align: right;">A</th>
+<th style="text-align: right;">B</th>
 <th style="text-align: right;">pos_high_M</th>
 <th style="text-align: right;">pos_low_M</th>
 <th style="text-align: right;">neg_high_M</th>
@@ -510,7 +510,7 @@ pre > code.sourceCode > span > a:first-child::before { text-decoration: underlin
 <td style="text-align: right;">-0.03</td>
 </tr>
 <tr class="even">
-<td style="text-align: left;">B</td>
+<td style="text-align: left;">S</td>
 <td style="text-align: right;">0.43</td>
 <td style="text-align: right;">0.53</td>
 <td style="text-align: right;">0.49</td>
@@ -548,7 +548,7 @@ pre > code.sourceCode > span > a:first-child::before { text-decoration: underlin
 <td style="text-align: right;">-0.24</td>
 </tr>
 <tr class="even">
-<td style="text-align: left;">A</td>
+<td style="text-align: left;">B</td>
 <td style="text-align: right;">0.88</td>
 <td style="text-align: right;">0.51</td>
 <td style="text-align: right;">0.65</td>
@@ -646,7 +646,7 @@ pre > code.sourceCode > span > a:first-child::before { text-decoration: underlin
 </table>
 <div class="code-copy-outer-scaffold"><div class="sourceCode cell-code" id="cb4"><pre class="sourceCode r code-with-copy"><code class="sourceCode r"><span id="cb4-1"><a href="#cb4-1" aria-hidden="true" tabindex="-1"></a><span class="co"># Just arousal and valence</span></span>
 <span id="cb4-2"><a href="#cb4-2" aria-hidden="true" tabindex="-1"></a>combined_HAAS2 <span class="ot">&lt;-</span> <span class="fu">merge</span>(fs0, haas_summary3, <span class="at">by=</span><span class="st">"ProlificID"</span>)</span>
-<span id="cb4-3"><a href="#cb4-3" aria-hidden="true" tabindex="-1"></a>vars<span class="ot">&lt;-</span><span class="fu">c</span>(<span class="st">"E"</span>,<span class="st">"D"</span>,<span class="st">"R"</span>,<span class="st">"M"</span>,<span class="st">"F"</span>,<span class="st">"G"</span>,<span class="st">"L"</span>,<span class="st">"C"</span>,<span class="st">"X"</span>,<span class="st">"B"</span>,<span class="st">"I"</span>,<span class="st">"A"</span>,<span class="st">"Arousal"</span>,<span class="st">"Valence"</span>)</span>
+<span id="cb4-3"><a href="#cb4-3" aria-hidden="true" tabindex="-1"></a>vars<span class="ot">&lt;-</span><span class="fu">c</span>(<span class="st">"E"</span>,<span class="st">"D"</span>,<span class="st">"R"</span>,<span class="st">"M"</span>,<span class="st">"F"</span>,<span class="st">"G"</span>,<span class="st">"L"</span>,<span class="st">"C"</span>,<span class="st">"X"</span>,<span class="st">"S"</span>,<span class="st">"I"</span>,<span class="st">"B"</span>,<span class="st">"Arousal"</span>,<span class="st">"Valence"</span>)</span>
 <span id="cb4-4"><a href="#cb4-4" aria-hidden="true" tabindex="-1"></a>matrix <span class="ot">&lt;-</span> dplyr<span class="sc">::</span><span class="fu">select</span>(combined_HAAS2, <span class="fu">all_of</span>(vars))</span>
 <span id="cb4-5"><a href="#cb4-5" aria-hidden="true" tabindex="-1"></a>cm <span class="ot">&lt;-</span> <span class="fu">cor</span>(matrix, <span class="at">use=</span><span class="st">"pairwise.complete.obs"</span>)</span>
 <span id="cb4-6"><a href="#cb4-6" aria-hidden="true" tabindex="-1"></a><span class="fu">print</span>(knitr<span class="sc">::</span><span class="fu">kable</span>(cm, <span class="at">digits =</span> <span class="dv">2</span>, <span class="at">caption =</span> <span class="st">"Correlation Matrix between Factor Scores and HAAS Valence and Arousal Ratings."</span>))</span></code></pre></div><button title="Copy to Clipboard" class="code-copy-button"><i class="bi"></i></button></div>
@@ -681,9 +681,9 @@ pre > code.sourceCode > span > a:first-child::before { text-decoration: underlin
 <th style="text-align: right;">L</th>
 <th style="text-align: right;">C</th>
 <th style="text-align: right;">X</th>
-<th style="text-align: right;">B</th>
+<th style="text-align: right;">S</th>
 <th style="text-align: right;">I</th>
-<th style="text-align: right;">A</th>
+<th style="text-align: right;">B</th>
 <th style="text-align: right;">Arousal</th>
 <th style="text-align: right;">Valence</th>
 </tr>
@@ -843,7 +843,7 @@ pre > code.sourceCode > span > a:first-child::before { text-decoration: underlin
 <td style="text-align: right;">0.21</td>
 </tr>
 <tr class="even">
-<td style="text-align: left;">B</td>
+<td style="text-align: left;">S</td>
 <td style="text-align: right;">0.43</td>
 <td style="text-align: right;">0.53</td>
 <td style="text-align: right;">0.49</td>
@@ -877,7 +877,7 @@ pre > code.sourceCode > span > a:first-child::before { text-decoration: underlin
 <td style="text-align: right;">0.41</td>
 </tr>
 <tr class="even">
-<td style="text-align: left;">A</td>
+<td style="text-align: left;">B</td>
 <td style="text-align: right;">0.88</td>
 <td style="text-align: right;">0.51</td>
 <td style="text-align: right;">0.65</td>
